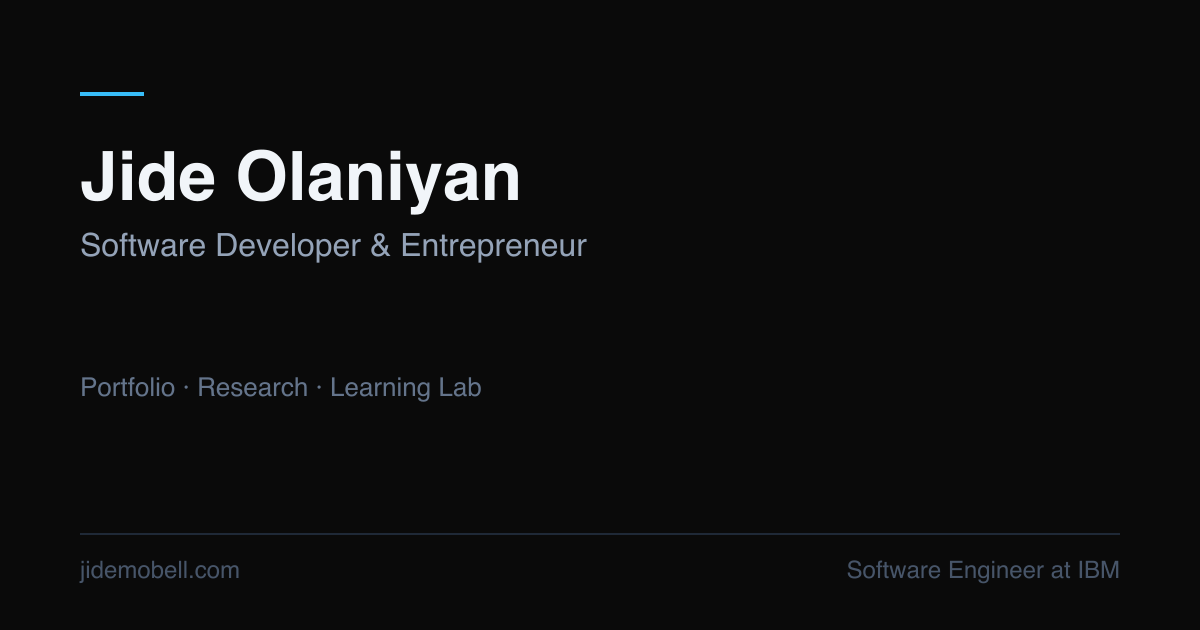
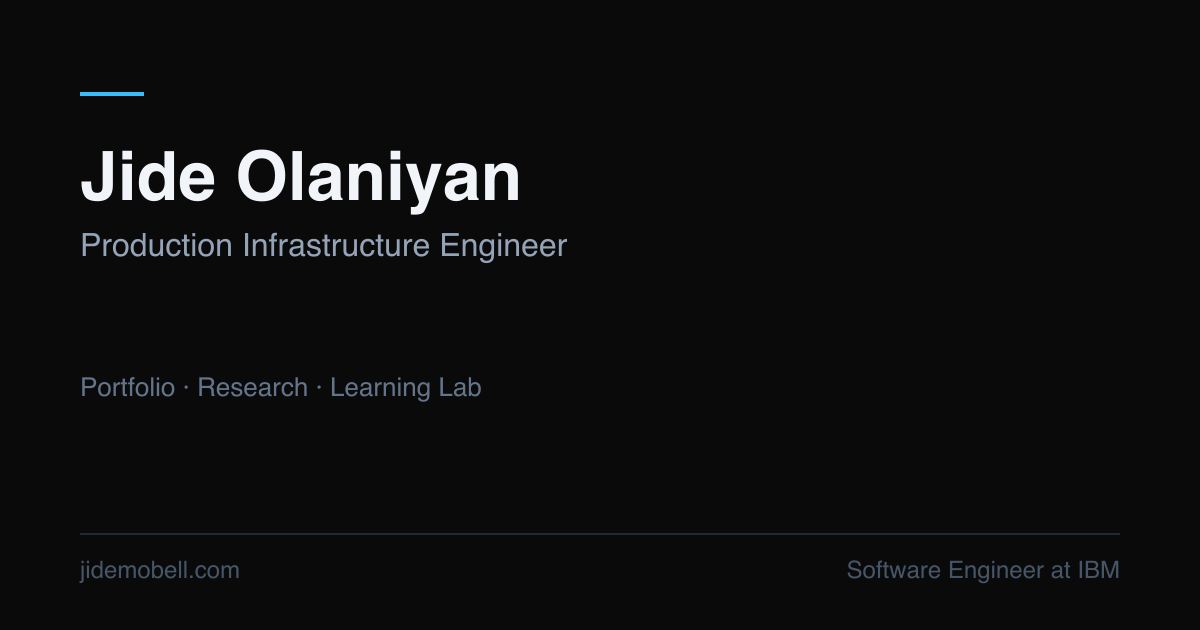
update description

Changed region(s): [[0.0617, 0.3619, 0.4933, 0.4222]]

diff --git a/public/index.html b/public/index.html
@@ -9,22 +9,22 @@
     <meta name="theme-color" content="#0a0a0a" />
     <meta
       name="description"
-      content="Jide Olaniyan - Software Developer & Entrepreneur. IBM Software Engineer building innovative connection systems and modern web applications."
+      content="Jide Olaniyan - Production Infrastructure Engineer at IBM. Site reliability, capacity delivery and automation, plus independent research on recommender systems and a generative-music prototype."
     />
     <meta property="og:type" content="website" />
     <meta property="og:site_name" content="Jide Olaniyan" />
-    <meta property="og:title" content="Jide Olaniyan - Software Developer &amp; Entrepreneur" />
+    <meta property="og:title" content="Jide Olaniyan - Production Infrastructure Engineer" />
     <meta
       property="og:description"
-      content="Portfolio, research and learning tracks. Software engineer at IBM — with independent work on exposure bias in recommender systems and a generative-music prototype."
+      content="Portfolio, research and learning tracks. Production infrastructure engineer at IBM — with independent work on exposure bias in recommender systems and a generative-music prototype."
     />
     <meta property="og:url" content="https://www.jidemobell.com/" />
     <meta property="og:image" content="https://www.jidemobell.com/og.png" />
     <meta property="og:image:width" content="1200" />
     <meta property="og:image:height" content="630" />
-    <meta property="og:image:alt" content="Jide Olaniyan - Software Developer and Entrepreneur" />
+    <meta property="og:image:alt" content="Jide Olaniyan - Production Infrastructure Engineer" />
     <meta name="twitter:card" content="summary_large_image" />
-    <meta name="twitter:title" content="Jide Olaniyan - Software Developer &amp; Entrepreneur" />
+    <meta name="twitter:title" content="Jide Olaniyan - Production Infrastructure Engineer" />
     <meta
       name="twitter:description"
       content="Portfolio, research and learning tracks — exposure bias in recommender systems, a generative-music prototype, and project-based engineering tracks."
@@ -44,7 +44,7 @@
       work correctly both with client-side routing and a non-root public URL.
       Learn how to configure a non-root public URL by running `npm run build`.
     -->
-    <title>Jide Olaniyan - Software Developer & Entrepreneur</title>
+    <title>Jide Olaniyan - Production Infrastructure Engineer</title>
   </head>
   <body>
     <noscript>You need to enable JavaScript to run this app.</noscript>

diff --git a/src/components/Hero.tsx b/src/components/Hero.tsx
@@ -42,7 +42,7 @@ const Hero: React.FC = () => {
             transition={{ delay: 0.4 }}
             className="hero-titles"
           >
-            <p className="hero-role">Software Developer @ IBM</p>
+            <p className="hero-role">Production Infrastructure Engineer @ IBM</p>
             <p className="hero-role">Research Enthusiast</p>
           </motion.div>
           
